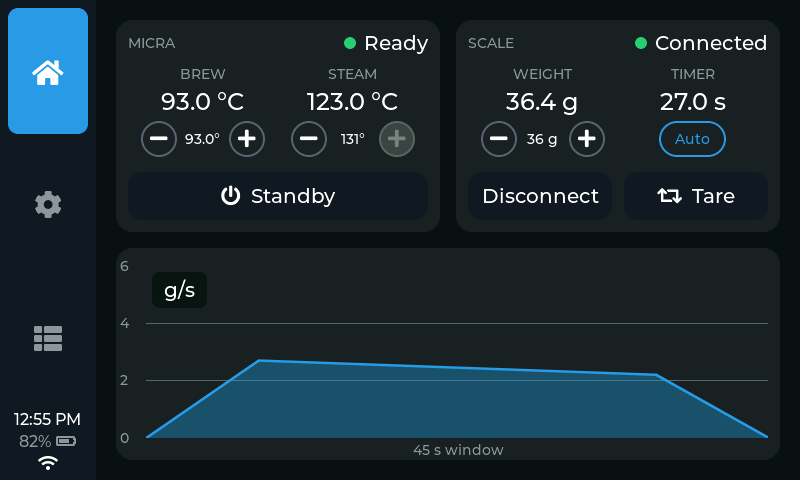
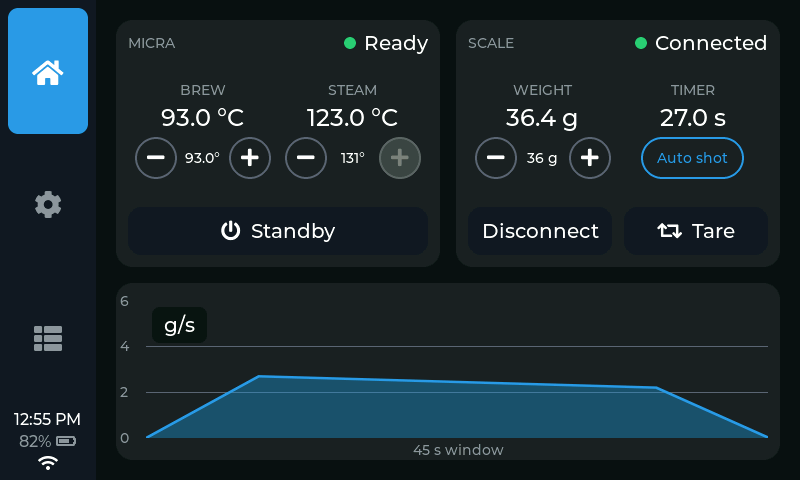
home: breathing room for the device cards + 'Auto shot' label
- Cards:graph split goes 7:5 (~35 px moved from the graph at 800x480,
  proportional on XL) so the card content stops feeling crowded.
- BREW/STEAM/WEIGHT/TIMER clusters center vertically in the body, so
  the new slack splits above and below them instead of pooling against
  the action buttons.
- Stepper/shot buttons up to 42 px (54 XL).
- Shot toggle reads "Auto shot" (clearer than a lone "Auto"); "Manual"
  and "Reset" unchanged.

diff --git a/src/ui/home_tab.cpp b/src/ui/home_tab.cpp
@@ -636,6 +636,12 @@ void build_micra_panel(lv_obj_t* parent, const lv_font_t* cap_font,
   lv_obj_t* scol = make_panel_column(body, "STEAM", cap_font, val_font, &out.boiler_value);
   make_stepper_group(scol, btn_size, symbol_font, set_font, &out.boiler_set,
                      &out.boiler_minus, &out.boiler_plus);
+  // Center the clusters in the body so the card's slack splits above and below
+  // them — breathing room against the header AND the action button.
+  lv_obj_set_flex_align(bcol, LV_FLEX_ALIGN_CENTER, LV_FLEX_ALIGN_CENTER,
+                        LV_FLEX_ALIGN_CENTER);
+  lv_obj_set_flex_align(scol, LV_FLEX_ALIGN_CENTER, LV_FLEX_ALIGN_CENTER,
+                        LV_FLEX_ALIGN_CENTER);
   build_power_button(card, action_h, action_font, out);
 }
 
@@ -654,7 +660,11 @@ void build_scale_panel(lv_obj_t* parent, const lv_font_t* cap_font,
   lv_obj_t* wcol = make_panel_column(body, "WEIGHT", cap_font, big_font, &out.scale_weight);
   make_stepper_group(wcol, btn_size, symbol_font, set_font, &out.scale_target,
                      &out.target_minus, &out.target_plus);
+  lv_obj_set_flex_align(wcol, LV_FLEX_ALIGN_CENTER, LV_FLEX_ALIGN_CENTER,
+                        LV_FLEX_ALIGN_CENTER);  // centered like the MICRA columns
   lv_obj_t* tcol = make_panel_column(body, "TIMER", cap_font, big_font, &out.shot_timer_label);
+  lv_obj_set_flex_align(tcol, LV_FLEX_ALIGN_CENTER, LV_FLEX_ALIGN_CENTER,
+                        LV_FLEX_ALIGN_CENTER);
   // Shot button in the stepper's slot under the timer: shot-mode toggle, or
   // Reset while a finished shot is up for review. Hidden unless the board has
   // paddle hardware (update_home shows it); sized to line up with the stepper.
@@ -670,7 +680,7 @@ void build_scale_panel(lv_obj_t* parent, const lv_font_t* cap_font,
   lv_obj_set_style_border_color(out.shot_btn, lv_color_hex(ui::theme::scrollbar()), 0);
   lv_obj_set_style_opa(out.shot_btn, LV_OPA_40, LV_STATE_DISABLED);
   out.shot_btn_label = lv_label_create(out.shot_btn);
-  lv_label_set_text(out.shot_btn_label, "Auto");
+  lv_label_set_text(out.shot_btn_label, "Auto Shot");
   lv_obj_set_style_text_color(out.shot_btn_label, lv_color_hex(ui::theme::text()), 0);
   lv_obj_set_style_text_font(out.shot_btn_label, set_font, 0);
   lv_obj_center(out.shot_btn_label);
@@ -894,7 +904,7 @@ void build_home_tab(lv_obj_t* parent, const ScreenProfile& screen, bool scale_en
   // MICRA and SCALE (weight/timer are not a bigger "hero" — they match the temps).
   const lv_font_t* panel_val = xl ? &lv_font_montserrat_28 : &lv_font_montserrat_24;
   const lv_font_t* panel_set = &lv_font_montserrat_14;
-  const int panel_btn = xl ? 48 : 36;
+  const int panel_btn = xl ? 54 : 42;
   const lv_font_t* panel_sym = xl ? &lv_font_montserrat_28 : &lv_font_montserrat_20;
 
   if (!scale_enabled) {
@@ -952,7 +962,9 @@ void build_home_tab(lv_obj_t* parent, const ScreenProfile& screen, bool scale_en
   lv_obj_remove_style_all(panels);
   lv_obj_remove_flag(panels, LV_OBJ_FLAG_SCROLLABLE);
   lv_obj_set_width(panels, lv_pct(100));
-  lv_obj_set_flex_grow(panels, 1);  // upper half (graph card grows equally below)
+  // 7:5 with the graph card below — a shade over half for the cards so their
+  // content breathes (~35 px moved out of the graph at 800x480).
+  lv_obj_set_flex_grow(panels, 7);
   lv_obj_set_flex_flow(panels, LV_FLEX_FLOW_ROW);
   lv_obj_set_style_pad_column(panels, gap, 0);
   build_micra_panel(panels, panel_cap, panel_status, panel_val, panel_set, panel_btn,
@@ -960,10 +972,11 @@ void build_home_tab(lv_obj_t* parent, const ScreenProfile& screen, bool scale_en
   build_scale_panel(panels, panel_cap, panel_status, panel_val, panel_set, panel_btn,
                     panel_sym, panel_pad, action_h, btn_font, out);
 
-  // The flow graph fills the lower half. The card is created here for correct
-  // flex order, but its canvas is sized only once the layout is final
-  // (populate_flow_graph below).
+  // The flow graph fills the (slightly smaller) lower half. The card is created
+  // here for correct flex order, but its canvas is sized only once the layout
+  // is final (populate_flow_graph below).
   lv_obj_t* graph_card = make_flow_graph_card(parent);
+  lv_obj_set_flex_grow(graph_card, 5);  // the other side of the 7:5 split
 
   // Everything's in place: resolve the final layout, then size + paint the graph
   // to the card's real content box.
@@ -1056,7 +1069,7 @@ void update_home(HomeWidgets& w, const core::MachineSnapshot& state,
         const bool active = brew.phase == core::ShotPhase::kBrewing ||
                             brew.phase == core::ShotPhase::kSettling;
         lv_label_set_text(w.shot_btn_label,
-                          review ? "Reset" : brew.shot_mode ? "Auto" : "Manual");
+                          review ? "Reset" : brew.shot_mode ? "Auto shot" : "Manual");
         // State lives in the outline + text: accent = auto armed, warn = Reset,
         // neutral ring = manual/busy (the fill stays card(), see build).
         const uint32_t ring = review          ? ui::theme::warn()